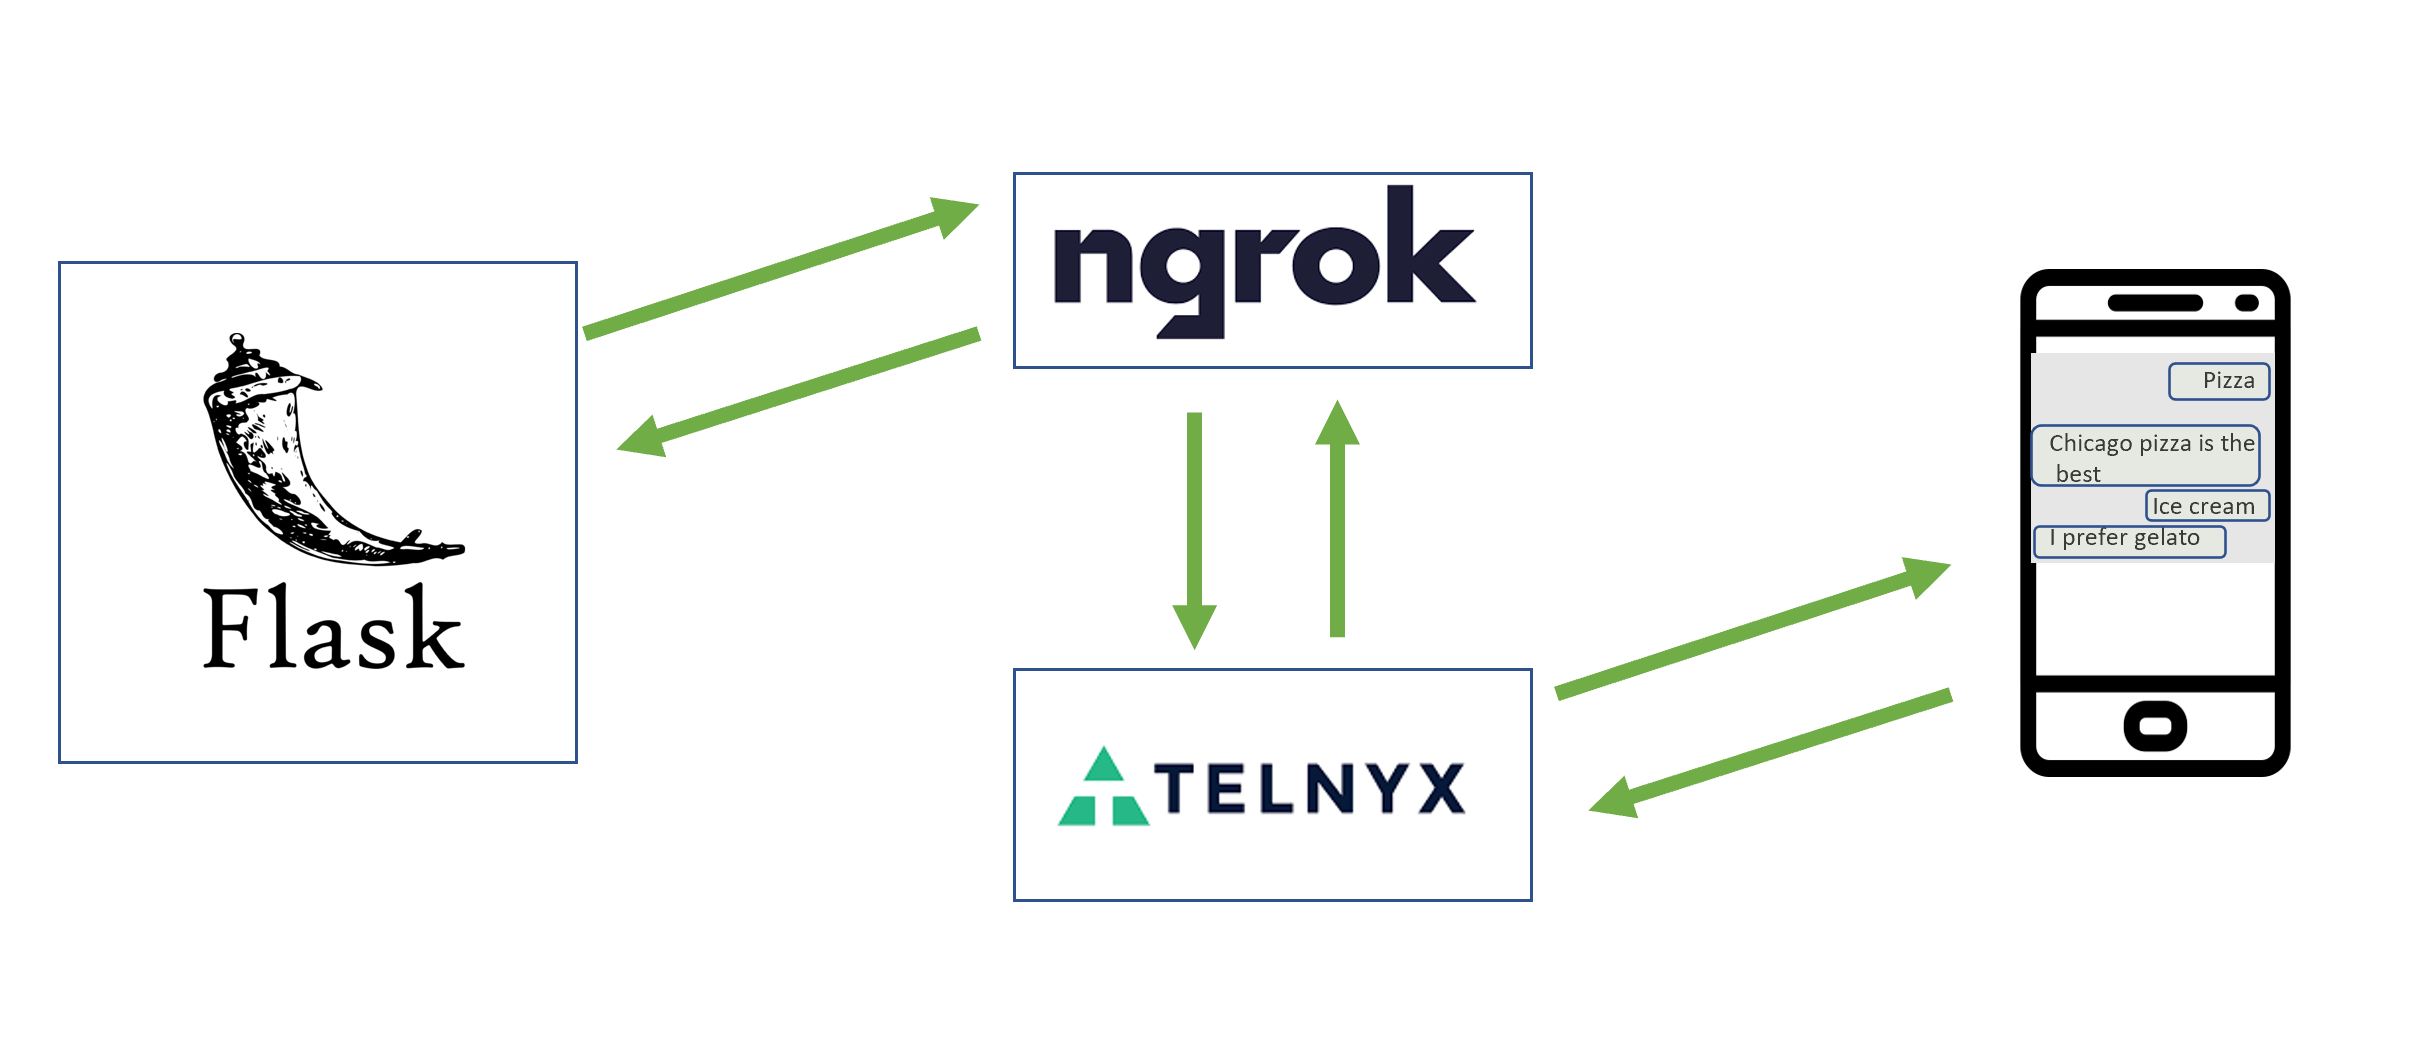
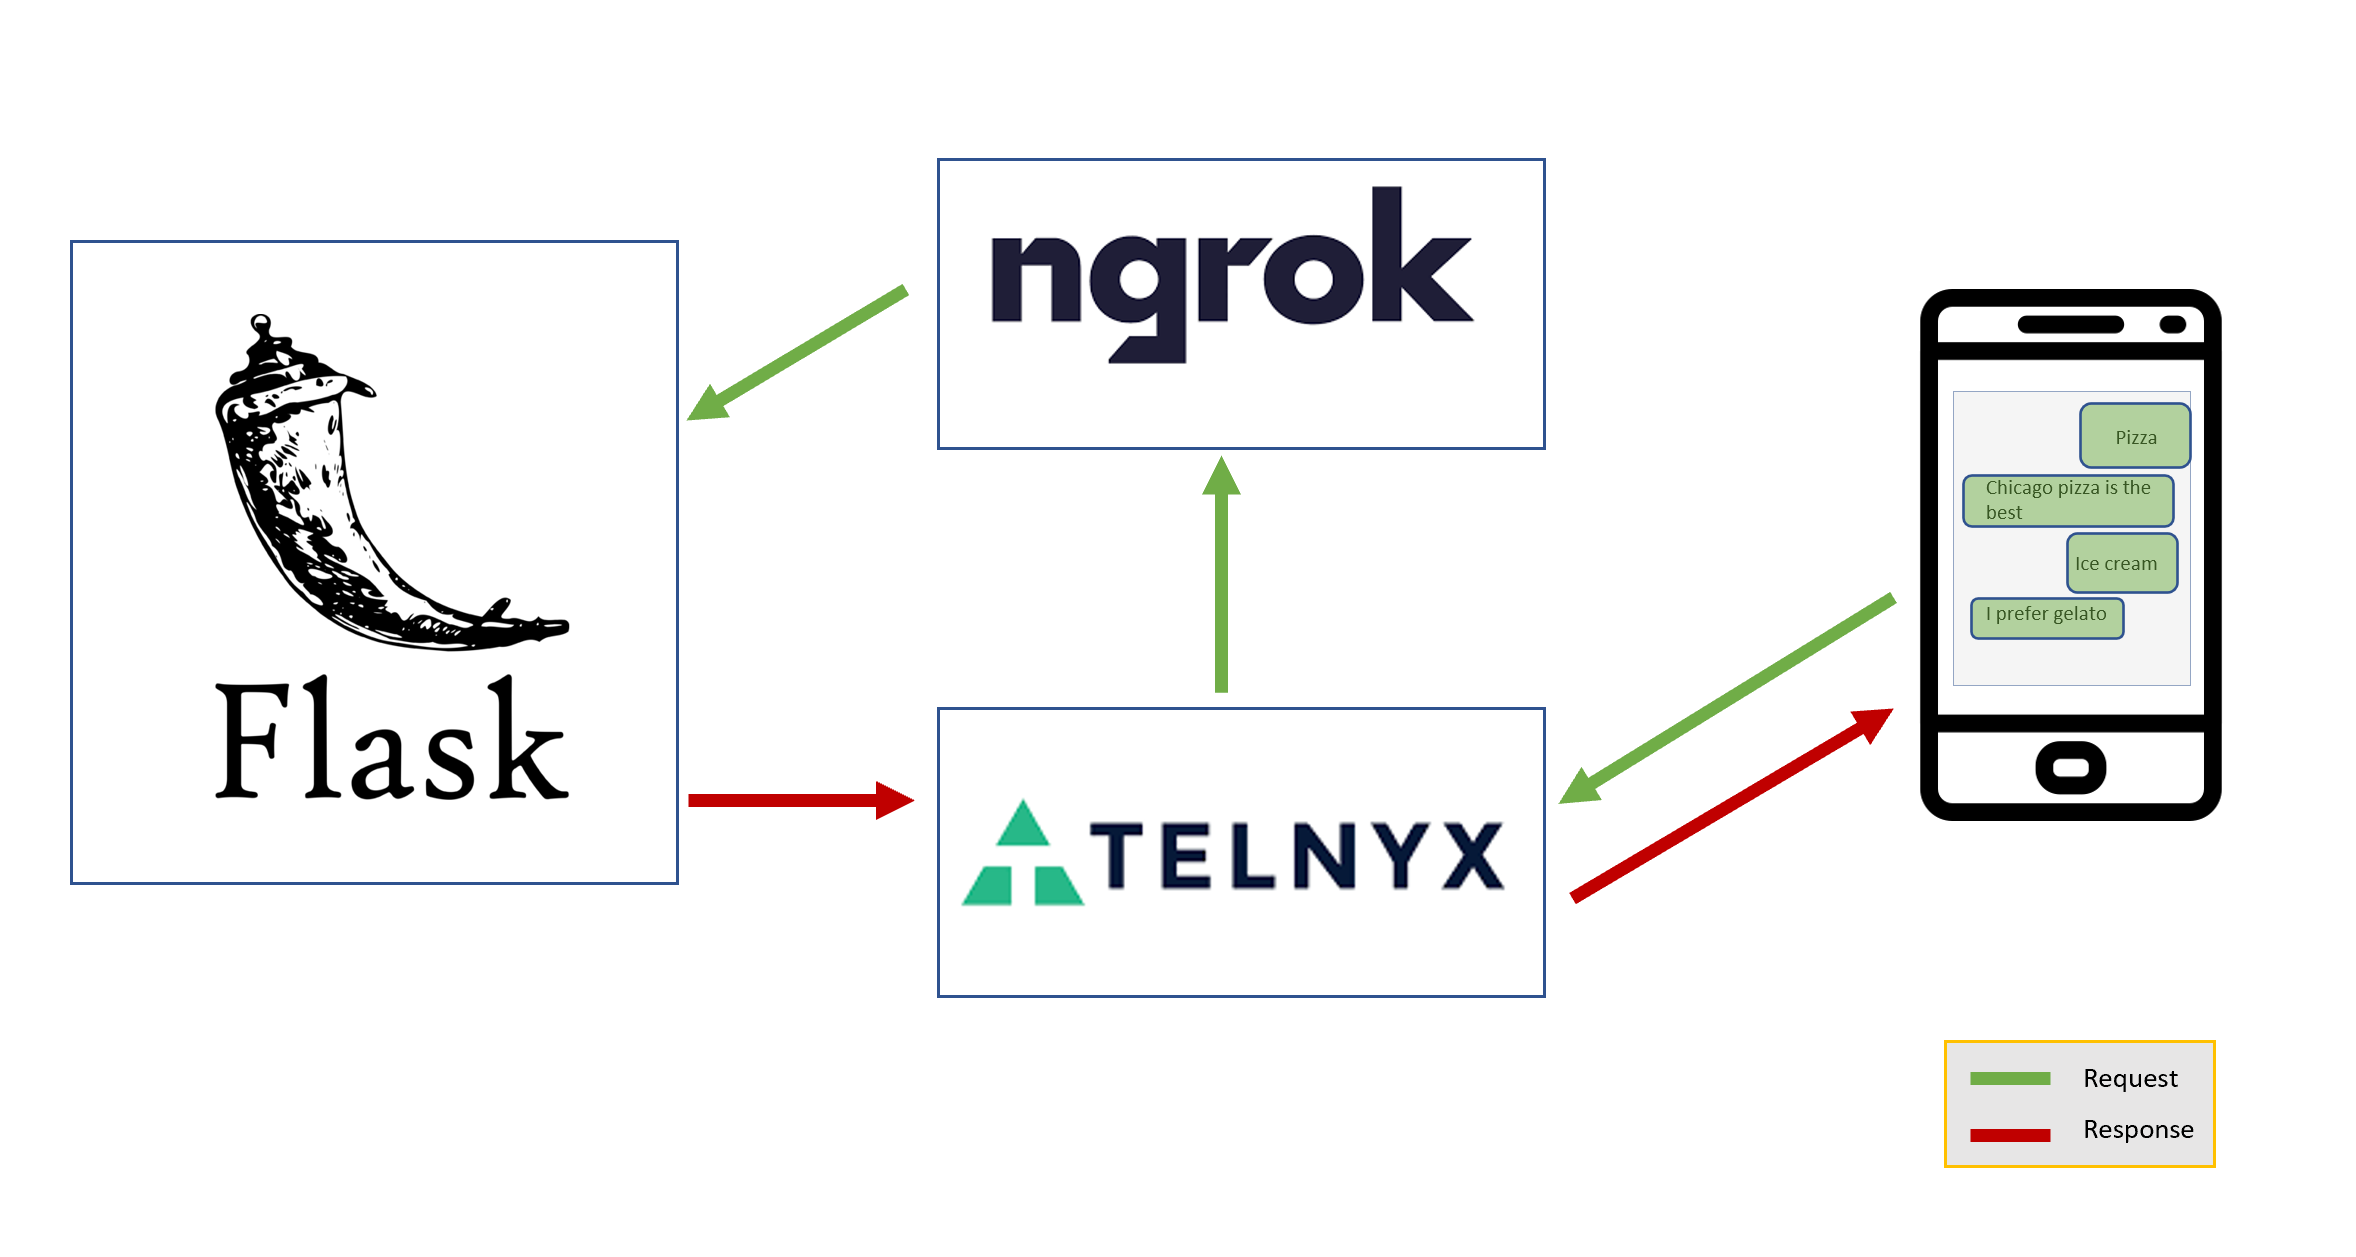
commit

diff --git a/README.md b/README.md
@@ -6,8 +6,11 @@
 
  <img src='./img/architecture.png' width="1000"/>
  
-The user sends the text message to a Telnyx procurred number, which is then forwarded to Python flask application with the hep of ngrok webhook.
-Flak application reads the message and responds back a predefined message to the user using Telnyx procurred number and ngrok webhook.
+1. The user sends the text message to a number procurred from Telnyx
+1. Telnyx receives the message and hands it to ngrok webhook
+1. Ngrok webhook hands the data to flask aapplication
+1. Flask application reads  the messages, evaluate it and repsonds to users number
+1. Telnyx number sends response to users number as text message
 
 ## Prerequisite
 
